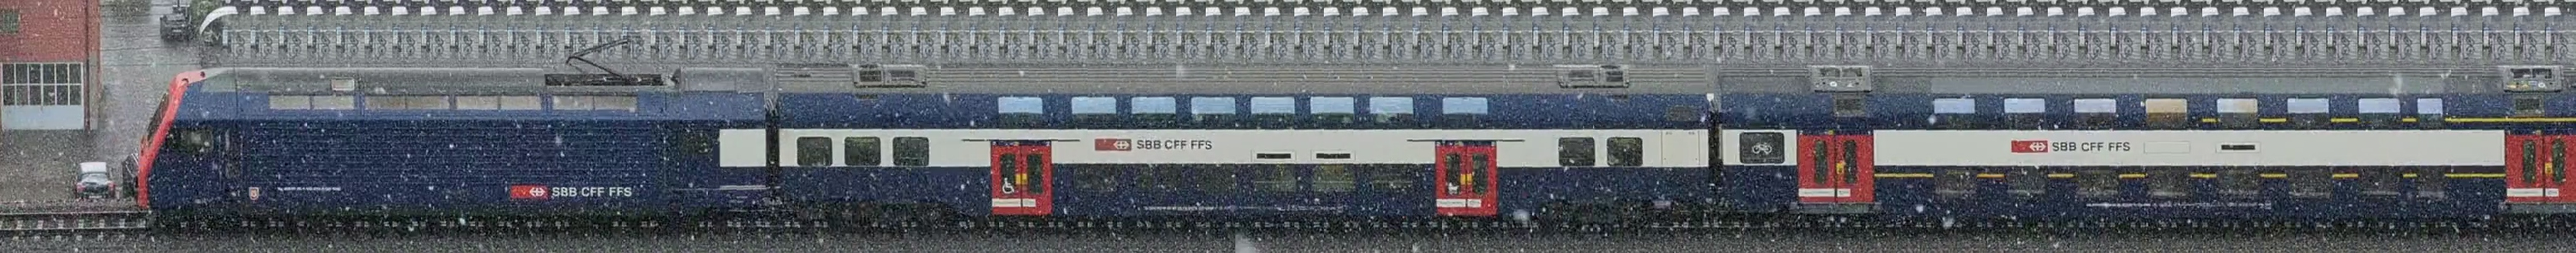
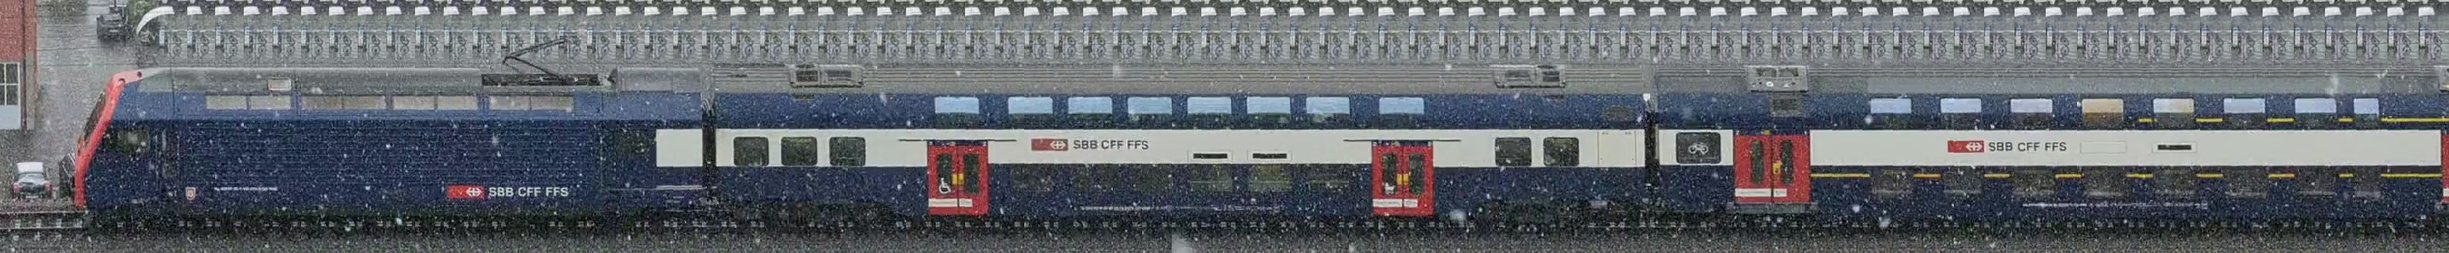
crop a bit more

diff --git a/internal/pkg/stitch/stitch.go b/internal/pkg/stitch/stitch.go
@@ -9,6 +9,7 @@ import (
 	"math"
 	"time"
 
+	"github.com/jo-m/trainbot/pkg/imutil"
 	"github.com/mccutchen/palettor"
 	"github.com/nfnt/resize"
 	"github.com/rs/zerolog/log"
@@ -231,6 +232,14 @@ func fitAndStitch(seq sequence, c Config) (*Train, error) {
 	img, err := stitch(seq.frames, dxFit)
 	if err != nil {
 		return nil, fmt.Errorf("unable to assemble image: %w", err)
+	}
+
+	// Theoretically, we can crop away 1/3 of the width of 1 frame.
+	// We crop away 1/4 to leave some margin.
+	dw := seq.frames[0].Bounds().Dx() / 4
+	cropped, err := imutil.Sub(img, image.Rect(dw, 0, img.Rect.Dx()-dw, img.Rect.Dy()))
+	if err == nil {
+		img = cropped.(*image.RGBA)
 	}
 
 	gif, err := createGIF(seq, img)
